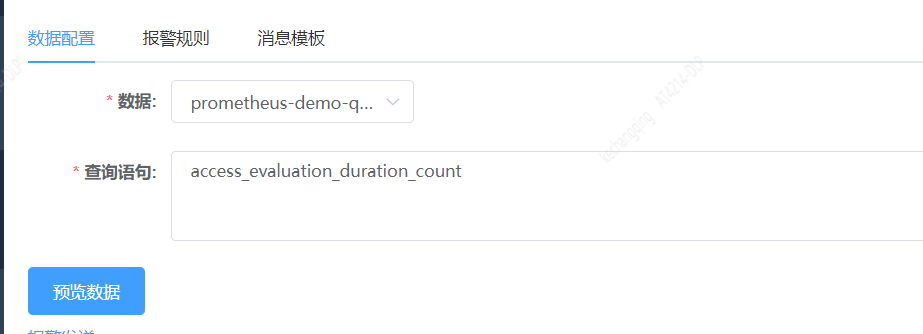
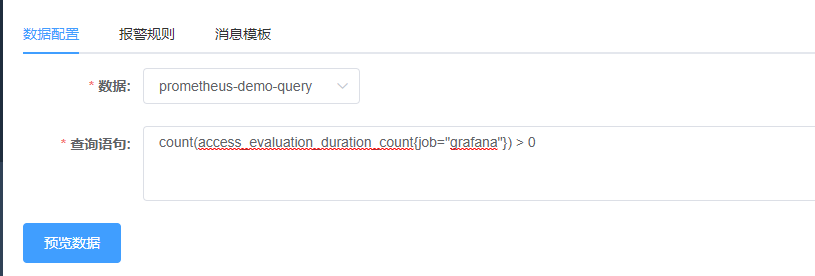
prometheus监控优化

diff --git a/frostmourne-monitor/src/main/java/com/autohome/frostmourne/monitor/service/core/query/impl/PrometheusDataQuery.java b/frostmourne-monitor/src/main/java/com/autohome/frostmourne/monitor/service/core/query/impl/PrometheusDataQuery.java
@@ -1,21 +1,28 @@
 package com.autohome.frostmourne.monitor.service.core.query.impl;
 
 import java.util.Map;
+
 import javax.annotation.Resource;
+
+import org.joda.time.DateTime;
+import org.slf4j.Logger;
+import org.slf4j.LoggerFactory;
+import org.springframework.stereotype.Service;
 
 import com.autohome.frostmourne.core.jackson.JacksonUtil;
 import com.autohome.frostmourne.monitor.dao.prometheus.IPrometheusDao;
 import com.autohome.frostmourne.monitor.dao.prometheus.domain.MetricValue;
+import com.autohome.frostmourne.monitor.dao.prometheus.domain.PrometheusData;
 import com.autohome.frostmourne.monitor.dao.prometheus.domain.PrometheusResponse;
 import com.autohome.frostmourne.monitor.model.contract.MetricContract;
 import com.autohome.frostmourne.monitor.service.core.domain.MetricData;
 import com.autohome.frostmourne.monitor.service.core.query.IPrometheusDataQuery;
 import com.fasterxml.jackson.core.type.TypeReference;
-import org.joda.time.DateTime;
-import org.springframework.stereotype.Service;
 
 @Service
 public class PrometheusDataQuery implements IPrometheusDataQuery {
+
+    private static final Logger LOGGER = LoggerFactory.getLogger(PrometheusData.class);
 
     @Resource
     private IPrometheusDao prometheusDao;
@@ -29,9 +36,10 @@ public class PrometheusDataQuery implements IPrometheusDataQuery {
         if (prometheusEndpoint.equalsIgnoreCase("/api/v1/query")) {
             PrometheusResponse<MetricValue> prometheusResponse = prometheusDao.query(user, password, addr, metricContract.getQueryString());
             if (prometheusResponse.getStatus().equalsIgnoreCase("success")) {
-                metricData.setMetricValue(prometheusResponse.getData().getResult().get(0).getValue().get(1));
+                metricData.setMetricValue(prometheusResponse.getData().getResult().size());
             } else {
                 metricData.setMetricValue("-1");
+                LOGGER.error("error when query prometheus, metric: {}", JacksonUtil.serialize(metricContract));
             }
             metricData.setLatestDocument(JacksonUtil.mapper().convertValue(prometheusResponse, new TypeReference<Map<String, Object>>() {}));
             return metricData;

diff --git a/README.md b/README.md
@@ -59,7 +59,7 @@
 * <a href="./doc/wiki/prometheus.md" target="_blank">Prometheus数据监控指南</a>
 * <a href="./doc/wiki/skywalking.md" target="_blank">SkyWalking数据监控指南</a>
 * <a href="./doc/wiki/jdbc-mysql.md" target="_blank">MySQL数据监控指南</a>
-* <a href="./doc/wiki/jdbc-clickhouse.md" target="_blank">Clickhouse数据监控指南</a>
+* <a href="./doc/wiki/jdbc-clickhouse.md" target="_blank">ClickHouse数据监控指南</a>
 * <a href="./doc/wiki/influxdb.md" target="_blank">InfluxDB数据监控指南</a>
 * <a href="./doc/wiki/ping.md" target="_blank">PING监控指南</a>
 * <a href="./doc/wiki/same-time-compare.md" target="_blank">数值同比监控使用指南</a>
@@ -231,7 +231,6 @@ yarn dev
 * 监控列表增加一个开关选项，只显示我的监控
 * 监控调度配置后显示预计调度时间
 * Elasticsearch数据名配置时自动提示索引名称
-* 数据源增加连接测试功能
 * 引入对象迭代器，迭代器代表从数据源中得到一个List数据列表，或者自定义输入；用于动态生成监控查询语句，例如: Level: ERROR AND Project: ${ITEM_VALUE}；达到数据遍历监控的效果；
 * 国际化
 * 发布1.0-RELEASE
@@ -251,7 +250,7 @@ yarn dev
 * ~~增加[skywalking](https://github.com/apache/skywalking)Log数据监控报警支持~~
 * ~~增加[skywalking](https://github.com/apache/skywalking)Alarm数据监控报警支持~~
 * ~~增加[prometheus](https://github.com/prometheus/prometheus)数据监控报警支持~~
-* 增加[skywalking](https://github.com/apache/skywalking)Database layer数据监控报警支持~~
+* 增加 [skywalking](https://github.com/apache/skywalking) Database Layer 数据监控报警支持~~
 * 增加[loki](https://github.com/grafana/loki)数据监控报警
 * 报警升级功能
 * 增加本项目内程序日志采集至MySQL并提供查询页面，方便排查问题和监控

diff --git a/doc/wiki/prometheus.md b/doc/wiki/prometheus.md
@@ -19,7 +19,7 @@
 查询语句举例：
 
 ```
-access_evaluation_duration_count
+access_evaluation_duration_count{job="grafana"} == 0
 ```
 
 填报警规则，如下图
@@ -29,10 +29,10 @@ access_evaluation_duration_count
 判断表达式举例:
 
 ```
-NUMBER == 0
+NUMBER > 0
 ```
 
-其中NUMBER取值为prometheus返回数据的第一个value；
+`NUMBER`取值为`prometheus`返回的符合查询条件的metric数量，相当于`data.result.length`；可以用于判断表达式；查询错误是NUMBER值为-1；
 
 ### 4 数据预览
 
@@ -40,7 +40,7 @@ NUMBER == 0
 
 ```json
 {
-	"NUMBER": "0",
+	"NUMBER": "1",
 	"data": {
 		"resultType": "vector",
 		"result": [
@@ -61,7 +61,7 @@ NUMBER == 0
 	"prometheusEndpoint": "/api/v1/query",
 	"headFields": "",
 	"endTime": "2022-05-12T18:39:51.542+08:00",
-	"EXPRESSION": "NUMBER == 0",
+	"EXPRESSION": "NUMBER > 0",
 	"status": "success"
 }
 ```
